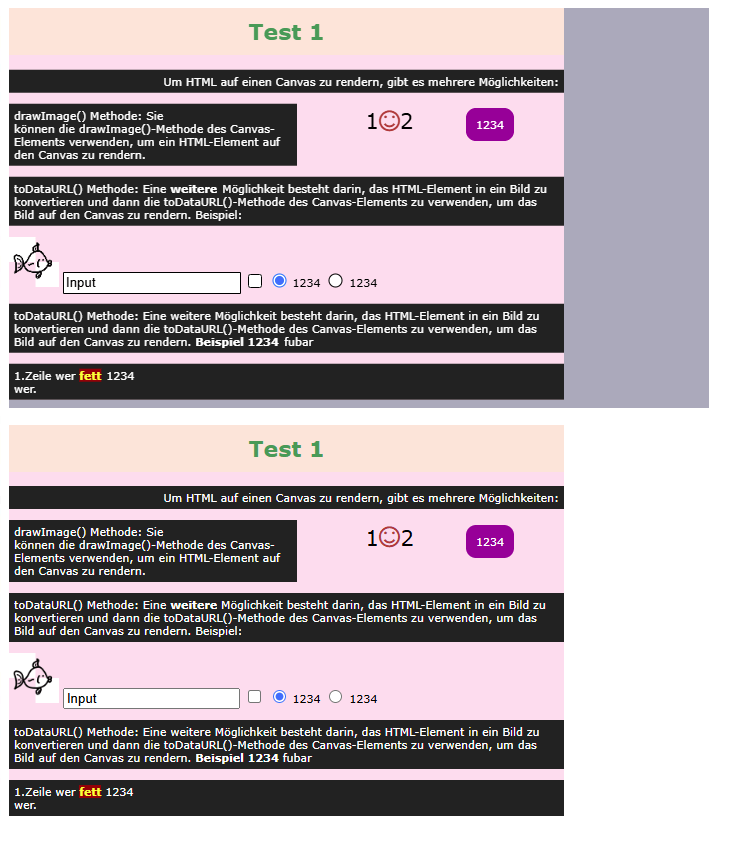
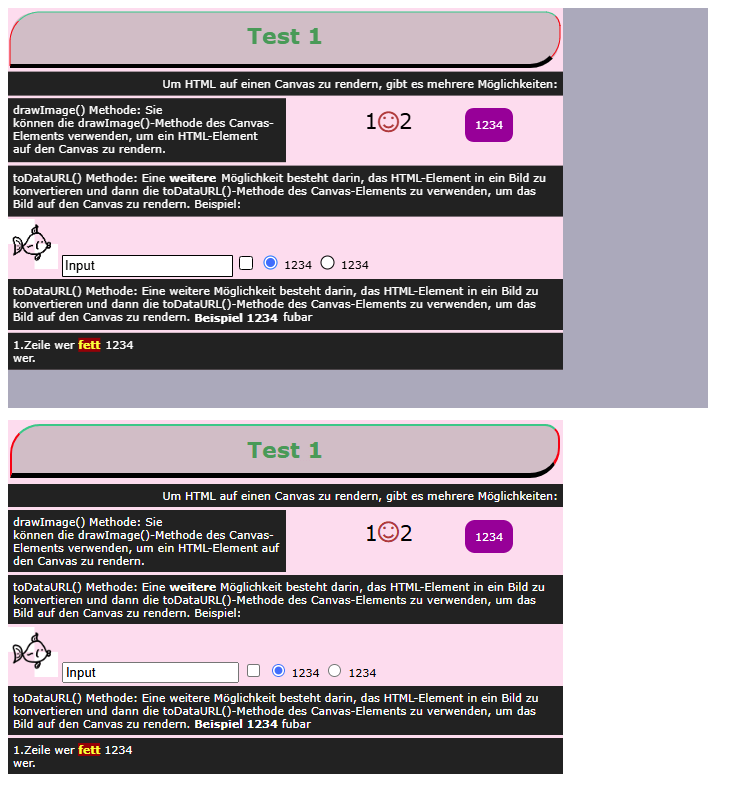
Version 3
Unterstützung für Border inkl. border-radius, Farbe und Dicke

diff --git a/script.js b/script.js
@@ -40,6 +40,137 @@ const drawcross=function(ctx,x,y,bh,farbe){
 	ctx.stroke();
 }
 
+
+const drawFilledRoundedRect=function(ctx, x, y, width, height, radii, color) {
+ 	ctx.beginPath();
+    ctx.moveTo(x + radii[0], y);
+    ctx.lineTo(x + width - radii[1], y);
+    ctx.quadraticCurveTo(x + width, y, x + width, y + radii[1]);
+    ctx.lineTo(x + width, y + height - radii[2]);
+    ctx.quadraticCurveTo(x + width, y + height, x + width - radii[2], y + height);
+    ctx.lineTo(x + radii[3], y + height);
+    ctx.quadraticCurveTo(x, y + height, x, y + height - radii[3]);
+    ctx.lineTo(x, y + radii[0]);
+    ctx.quadraticCurveTo(x, y, x + radii[0], y);
+    ctx.closePath();
+    ctx.fillStyle = color;
+    ctx.fill();
+}
+
+const drawArc=function(ctx, centerX, centerY, radius, startAngle, endAngle) {
+ 	// Grad in Bogenmaß umrechnen
+    const startRad = (startAngle - 90) * (Math.PI / 180);
+    const endRad = (endAngle - 90) * (Math.PI / 180);
+    ctx.arc(centerX, centerY, radius, startRad, endRad);
+ }
+
+const drawRoundedRectLines=function(ctx, x, y, width, height, radii, colors, sizes) {
+
+	ctx.lineJoin = "round";	
+	
+	//oben
+	ctx.lineWidth=sizes[0];
+    ctx.strokeStyle = colors[0];
+	ctx.beginPath();
+	if(radii[0]>0){
+		drawArc(ctx,x+radii[0],y+radii[0], radii[0],315,360);
+	}	
+	ctx.moveTo(x + radii[0], y);
+    ctx.lineTo(x + width - radii[1], y);
+	if(radii[1]>0){
+		drawArc(ctx,x+width-radii[1],y+radii[1], radii[1],0,45);
+	}	
+	ctx.stroke();
+    
+	//rechts
+	ctx.lineWidth=sizes[1];
+    ctx.strokeStyle = colors[1];
+	ctx.beginPath();
+	if(radii[1]>0){
+		drawArc(ctx,x+width-radii[1],y+radii[1], radii[1],45,90);
+	}	
+    ctx.moveTo(x + width, y + radii[1]);
+    ctx.lineTo(x + width, y + height - radii[2]);
+	if(radii[2]>0){
+		drawArc(ctx,x+width-radii[2],y+height-radii[2], radii[2],90,135);
+	}	
+    ctx.stroke();
+    
+	//unten
+	ctx.lineWidth=sizes[2];
+    ctx.strokeStyle = colors[2];
+    ctx.beginPath();
+	if(radii[2]>0){
+		drawArc(ctx,x+width-radii[2],y+height-radii[2], radii[2],135,180);
+	}		
+    ctx.moveTo(x + width - radii[2], y + height);
+    ctx.lineTo(x + radii[3] , y + height);
+ 	if(radii[3]>0){
+		drawArc(ctx,x+radii[3],y+height-radii[3], radii[3],180,225);
+	}		
+	ctx.stroke();
+    
+	//links
+	ctx.lineWidth=sizes[3];
+    ctx.strokeStyle = colors[3];
+    ctx.beginPath();
+ 	if(radii[3]>0){
+		drawArc(ctx,x+radii[3],y+height-radii[3], radii[3],225,270);
+	}		
+    ctx.moveTo(x, y + height - radii[3] );
+    ctx.lineTo(x, y + radii[0] );
+	if(radii[0]>0){
+		drawArc(ctx,x+radii[0],y+radii[0], radii[0],270,360-45);
+	}	
+   ctx.stroke();
+}
+
+const drawBGBox=function(ctx,x,y,b,h ,styles ,node){			
+	var r1=parseInt(styles.borderTopLeftRadius);
+	var r2=parseInt(styles.borderTopRightRadius);
+	var r3=parseInt(styles.borderBottomRightRadius);
+	var r4=parseInt(styles.borderBottomLeftRadius);
+	
+	var w1=parseInt(styles.borderTopWidth);
+	var w2=parseInt(styles.borderRightWidth);
+	var w3=parseInt(styles.borderBottomWidth);
+	var w4=parseInt(styles.borderLeftWidth);
+	
+	var c1=styles.borderTopColor;
+	var c2=styles.borderRightColor;
+	var c3=styles.borderBottomColor;
+	var c4=styles.borderLeftColor;
+	
+	ctx.fillStyle = styles.backgroundColor;
+	
+	if(styles.borderTopLeftRadius.indexOf('px')<0)r1=0;
+	if(styles.borderTopRightRadius.indexOf('px')<0)r2=0;
+	if(styles.borderBottomRightRadius.indexOf('px')<0)r3=0;
+	if(styles.borderBottomLeftRadius.indexOf('px')<0)r4=0;
+	
+	if(styles.borderTopWidth.indexOf('px')<0)w1=0;
+	if(styles.borderRightWidth.indexOf('px')<0)w2=0;
+	if(styles.borderLeftWidth.indexOf('px')<0)w3=0;
+	if(styles.borderBottomWidth.indexOf('px')<0)w4=0;
+	
+	if(r1 > 0|| r2 >0 || r3 >0 || r4 >0 ){
+		//hat rundungen
+		drawFilledRoundedRect(ctx,x,y,b,h,[r1,r2,r3,r4],styles.backgroundColor);
+	}
+	else{
+		//keine rundungen
+		ctx.fillRect(x,y, b,h);		
+	}
+	
+	if(	(w1>0 || w2>0 || w3>0 || w4>0) 
+	){
+		//border
+		drawRoundedRectLines(ctx,x,y,b,h,[r1,r2,r3,r4],[c1,c2,c3,c4],[w1,w2,w3,w4]);
+	}		
+}
+			
+
+
 const htmltocanvas=function(optionen){
 	var meinHTML=optionen.quelle,
 		canvas=optionen.canvas,
@@ -103,19 +234,8 @@ const htmltocanvas=function(optionen){
 		ctx.fillStyle = styles.backgroundColor;
 
 		
-		if(styles["borderRadius"]!=undefined){
-			tmp=styles.borderRadius;
-			if(tmp.indexOf(' ')<0){//nur ein Wert für alle Ecken!
-				var bradius=parseInt(tmp);
-				if(bradius>0){
-					ctx.fillStyle = ctx.fillStyle;
-					drawRoundRect(ctx,nodepos.x,nodepos.y,b,h,bradius);
-					ctx.fill();
-				}
-				else{
-					ctx.fillRect(nodepos.x,nodepos.y, b,h);
-				}
-			}
+		if(styles["borderColor"]!=undefined){
+			drawBGBox(ctx,nodepos.x,nodepos.y,b,h ,styles,node);
 		}		
 		
 		
@@ -155,7 +275,6 @@ const htmltocanvas=function(optionen){
 				beforeStyle = window.getComputedStyle(cnode, "::before");
 				beforecontent=beforeStyle.getPropertyValue("content")
 				textinhalt=beforecontent.split('"').join('');
-				
 				
 				if(textinhalt!="none" && textinhalt!="-moz-alt-content"){
 					
@@ -223,9 +342,11 @@ const htmltocanvas=function(optionen){
 			
 //console.log("%c"+cnode.nodeName,"color:#999");
 		
+			if(cnode.nodeName!=="#text")
+				cstyle=window.getComputedStyle(cnode);
+		
 			if(cnode.nodeName==="INPUT"){
 				cstyle=window.getComputedStyle(cnode);
-				
 				
 				ctx.fillStyle =cstyle.lightingColor;// "#ffffff";
 
@@ -313,9 +434,6 @@ const htmltocanvas=function(optionen){
 				//console.log(inptextsize);
 				//console.log(">>",cnode.type,cnode.value);
 				if(cnode.type=="text"){
-					//console.log(cstyle);
-					
-					
 					ctx.fillStyle = cstyle.color;
 					ctx.font = cstyle.font;
 					ctx.fillText(cnode.value, 
@@ -440,7 +558,8 @@ console.log("Text:",'"'+cnode.data+'"');
 				}				
 			}
 			else{
-				//console.log(cnode.nodeName);
+				//console.log(cnode.nodeName,cstyle);
+				
 			}
 			
 			if(cnode.childNodes.length>0){
@@ -448,7 +567,6 @@ console.log("Text:",'"'+cnode.data+'"');
 //console.log(reinfo);
 				xx=reinfo.x+reinfo.width;
 				//yy=reinfo.y;//-reinfo.height-reinfo.zdiff;//bleibt
-
 			}
 			
 		}//i

diff --git a/index.htm b/index.htm
@@ -9,6 +9,10 @@
 	<link rel="stylesheet" href="font/style.css">
     
 	<style>	
+	*, body{
+	  box-sizing: border-box;	
+	}
+	
 	body{
 		font-family:Verdana;
 		font-size:11px;
@@ -23,8 +27,26 @@
 		background-color:#222222;
 		color:#fff;
 		padding:5px;
+		margin-top:3px;
+		margin-bottom:3px;
 	}	
-	h1{background-color:rgba(255,255,128,0.2)}
+	h1{
+		background-color:rgb(32 59 41 / 20%);
+		position:relative;
+		top:4px;
+		left:2px;
+		width:calc(100% - 5px);
+		
+		text-align:center;
+		padding:10px;
+		border: 2px solid red;
+		border-radius:30px 15px 30px 0;
+		border-top-color:#27c686;
+		border-bottom-color:#000;
+		border-bottom-width:5px;
+		margin-top:10px;
+		margin-bottom:10px;
+	}
 	imput{border-color:#000000;}
 	
 	.icon-smile:before{
@@ -72,10 +94,12 @@
 <body id="thebody">
 <canvas id="zielcanvas" width="700" height="400"></canvas>
 
-<!-- transform:scale(0)-->
+<!-- transform:scale(0)
+border: 2px solid green;
+-->
 <div id="quellhtml" style="width:555px;position:relative">
-	<h1 style="text-align:center;padding:10px">Test 1</h1>
-	<p style="text-align:right">Um HTML auf einen Canvas zu rendern, gibt es mehrere Möglichkeiten:</p>
+	<h1>Test 1</h1>
+	<p style="text-align:right;">Um HTML auf einen Canvas zu rendern, gibt es mehrere Möglichkeiten:</p>
 	
 	<p style="width:50%">drawImage() Methode: Sie<br>können die drawImage()-Methode des Canvas-Elements verwenden, 
 	um ein HTML-Element auf den Canvas zu rendern.</p>

diff --git a/README.md b/README.md
@@ -29,6 +29,9 @@ Auch klassische `<input>`-Elemente werden gerendert, allerdings ohne Interaktion
 - Unterstützung für `padding`
 - Unterstützung für Elemente mit `:before`, z. B. Font-Icons
 
+## Änderungen in Version 3
+- Unterstützung für border inkl. border-radius, Farbe und Dicke
+
 ## Schriftart-Quelle
 - **URL:** [IcoMoon](https://icomoon.io/#icons-icomoon)
 - **Designer:** Keyamoon
